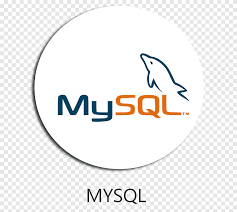
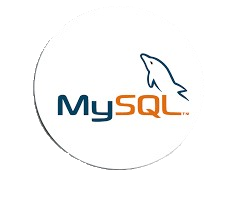
wazzup

diff --git a/skills.html b/skills.html
@@ -33,17 +33,19 @@
            <img class="css" src="css3.png" alt="css3">
            <br>
            <img class="html" src="html5-removebg-preview (5).png" alt="html">
+           <img class="sql" src="mysql.png" alt="mysql">
+           
        </div>
        <br>
       
        <footer>
-        <div class="contact">
-            Connect with me on <br>
-            <a class="cont" href="https://www.linkedin.com/in/princess-asante-1aa198172/"><i class="fa fa-linkedin-square" aria-hidden="true"></i> </a>
-            <a class="cont" href="https://www.facebook.com/princess.asante.161/"><i class="fa fa-facebook-square" aria-hidden="true"></i></a>
-            <a class="cont" href="https://twitter.com/princess_asante"><i class="fa fa-twitter-square" aria-hidden="true"></i></a>
-        </div>
-    </footer>
+            <div class="contact">
+                Connect with me on <br>
+                <a class="cont" href="https://www.linkedin.com/in/princess-asante-1aa198172/"><i class="fa fa-linkedin-square" aria-hidden="true"></i> </a>
+                <a class="cont" href="https://www.facebook.com/princess.asante.161/"><i class="fa fa-facebook-square" aria-hidden="true"></i></a>
+                <a class="cont" href="https://twitter.com/princess_asante"><i class="fa fa-twitter-square" aria-hidden="true"></i></a>
+            </div>
+        </footer>
      
     </body>
 </html> 

diff --git a/index.html b/index.html
@@ -26,10 +26,10 @@
         <h1 >Princess Asante</h1>
         <img src="circle-cropped.png" alt="princess">
         <div class="myname">
-            
+            <i class="fa fa-music" aria-hidden="true"></i> Insert lyrics here! <i class="fa fa-music" aria-hidden="true"></i>
             <p>Hi there! <br> My name is Princess Asante, a third year student of Ashesi University studying Management Information Systems. I will be 
                 graduating in 2022, and I am from Ghana. I love to write, code and read. When I'm not doing that, I'm watching TV, reading my Bible or trying to 
-                learn to play guitar. You can find my contacts below
+                learn to play guitar. You can find my contacts below.
             </p>
         
        </div>

diff --git a/coursework.css b/coursework.css
@@ -73,9 +73,10 @@ nav ul li{
 .mycourses{
     margin: auto;
     border: 3px groove rebeccapurple;
-    width: 70%;
+    width: 50%;
     color: white;
     background-color: rgba(123, 16, 230, 0.3);
     box-shadow: 10px 10px 5px 5px #888888;
     text-align: center;
+    margin-bottom: 30px;
 }

diff --git a/skills.css b/skills.css
@@ -47,11 +47,16 @@ nav ul li{
 a:hover{
     color:plum; 
 }
-.css, .js, .html{
+.css, .js, .html, .sql{
     width: 15em;
     height: 15em;
     text-align: center;
     margin: 40px;
+}
+
+
+.css, .sql{
+    float: right;
 }
 
 

diff --git a/coursework.html b/coursework.html
@@ -31,6 +31,7 @@
                 and more recently with desktop publishing software like Aldus PageMaker including versions of Lorem Ipsum
             </p>
        </div>
+       
 
 
         <table class='no1' border='1' > 

diff --git a/main.css b/main.css
@@ -74,3 +74,7 @@ nav ul li{
 .cont{
     color: white;
 }
+
+.fa-music{
+    color: purple;
+}
